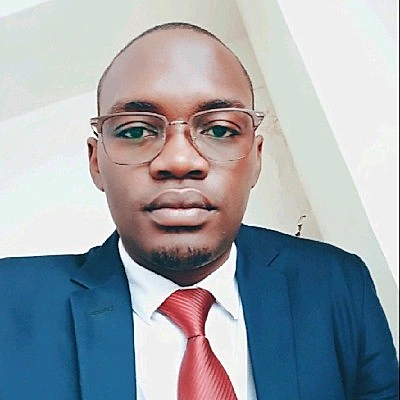
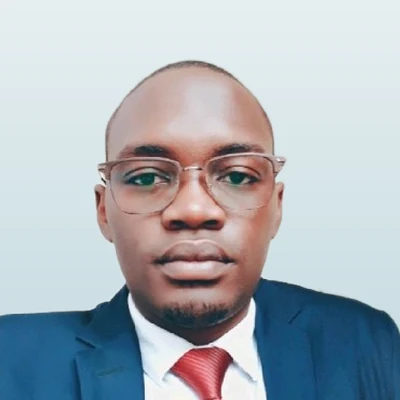
feat(team): update shared background details and add new member photos for consistency

diff --git a/docs/pages/team.md b/docs/pages/team.md
@@ -91,7 +91,7 @@ The documented convention ([D-10 in DECISIONS.md](../../DECISIONS.md)) is: host 
 
 **Photo spec (D-10):** square (1:1), at least 800×800px, headshot with shoulders visible, centered with even margins — because `Avatar` always applies `object-cover`, an off-center or non-square source crops badly. If a supplied photo doesn't meet spec, don't re-crop the file — set `photoPosition` in the JSON entry instead (e.g. `"center top"`), which flows straight through to the image's `object-position` style. Prefer JPEG/WebP, ideally under 500KB.
 
-**Shared background (since 2026-10-13):** the three Leadership photos were background-removed and recomposited so they all sit on the same backdrop, a vertical gradient from `#E6EFF1` (top) to `#C4D8DE` (bottom), 400×400px. Framing is matched too: top of the head at 15% from the top edge, head (hair to chin) about 55% of the height, face centered, body running off the bottom edge. A new member's photo should get the same treatment so the row stays consistent. It was done with [`@imgly/background-removal-node`](https://www.npmjs.com/package/@imgly/background-removal-node) run outside the repo (it is not a project dependency); use its output only as an alpha mask over the original photo, since it returns a 256-color palette PNG. Because of this, `photoPosition` isn't used by any current member.
+**Shared background (since 2026-10-13, Technical staff since 2026-11-21):** all six Leadership and Technical staff photos were background-removed and recomposited so they all sit on the same backdrop, a vertical gradient from `#E6EFF1` (top) to `#C4D8DE` (bottom), 400×400px. Framing is matched too: top of the head at 15% from the top edge, head (hair to chin) about 55% of the height, face centered, body running off the bottom edge. A new member's photo should get the same treatment so the row stays consistent. It was done with [`@imgly/background-removal-node`](https://www.npmjs.com/package/@imgly/background-removal-node) run outside the repo (it is not a project dependency); use its output only as an alpha mask over the original photo, since it returns a 256-color palette PNG. The output can keep small bits of the old background attached to the outline (a wall hook on Jordy Nouala's shoulder had to be cleared by hand), so zoom in on the result before committing. Photos with a head too small or too high were scaled up and shifted to match the framing, so start from the largest source available. Because of this, `photoPosition` isn't used by any current member.
 
 ## How-to recipes
 
